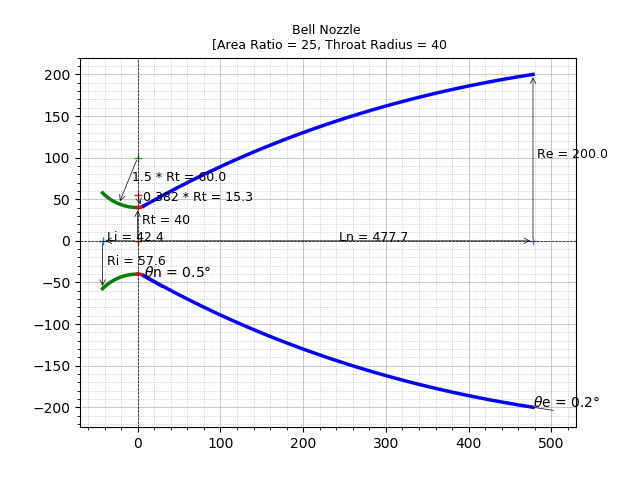
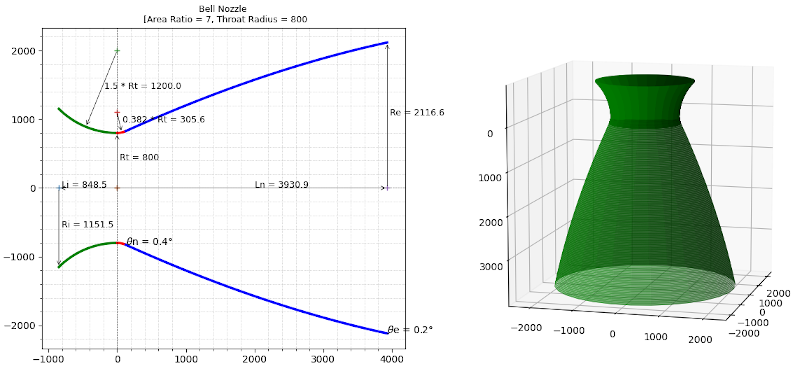
Code modified to provide a 3D view

diff --git a/bell_nozzle.py b/bell_nozzle.py
@@ -216,7 +216,7 @@ def find_nearest(array, value):
     return idx, array[idx]  
 
 # nozzle contour plot
-def plot_nozzle(title, Rt, angles, contour):
+def plot_nozzle(ax, title, Rt, angles, contour):
 	# wall angles
 	nozzle_length = angles[0]; theta_n = angles[1]; theta_e = angles[2];
 	
@@ -226,7 +226,10 @@ def plot_nozzle(title, Rt, angles, contour):
 	xbell = contour[6]; ybell = contour[7]; nybell = contour[8];
 	
 	# plot
-	ax = plt.axes()	
+
+	# set correct aspect ratio
+	ax.set_aspect('equal')
+
 	# throat enterant
 	ax.plot(xe, ye, linewidth=2.5, color='g')
 	ax.plot(xe, nye, linewidth=2.5, color='g')
@@ -321,7 +324,6 @@ def plot_nozzle(title, Rt, angles, contour):
 	
 	# show
 	plt.title(title, fontsize=9)
-	plt.show()		
 	return
 
 # theta_n in rad,  origin =[startx, starty], degree symbol
@@ -342,6 +344,80 @@ def draw_angle_arc(ax, theta_n, origin, degree_symbol=r'$\theta$'):
 	ax.text(startx+0.5, starty+0.5, degree_symbol + ' = ' + str(round(theta_n,1)) + u"\u00b0")	
 	return
 
+# ring of radius r, height h, base point a
+def ring(r, h, a=0, n_theta=30, n_height=10):
+    theta = np.linspace(0, 2*np.pi, n_theta)
+    v = np.linspace(a, a+h, n_height )
+    theta, v = np.meshgrid(theta, v)
+    x = r*np.cos(theta)
+    y = r*np.sin(theta)
+    z = v
+    return x, y, z
+
+# Set 3D plot axes to equal scale. 
+# Required since `ax.axis('equal')` and `ax.set_aspect('equal')` don't work on 3D.
+def set_axes_equal_3d(ax: plt.Axes):
+    """	
+    https://stackoverflow.com/questions/13685386/matplotlib-equal-unit-length-with-equal-aspect-ratio-z-axis-is-not-equal-to
+    """
+    limits = np.array([
+        ax.get_xlim3d(),
+        ax.get_ylim3d(),
+        ax.get_zlim3d(),
+    ])
+    origin = np.mean(limits, axis=1)
+    radius = 0.5 * np.max(np.abs(limits[:, 1] - limits[:, 0]))
+    _set_axes_radius(ax, origin, radius)
+    return
+
+# set axis limits
+def _set_axes_radius(ax, origin, radius):
+    x, y, z = origin
+    ax.set_xlim3d([x - radius, x + radius])
+    ax.set_ylim3d([y - radius, y + radius])
+    ax.set_zlim3d([z - radius, z + radius])
+    return
+
+# 3d plot
+def plot3D(ax, contour):
+	# unpack the contour values
+	xe = contour[0];   	ye = contour[1];   	nye = contour[2];
+	xe2 = contour[3]; 	ye2 = contour[4];  	nye2 = contour[5];
+	xbell = contour[6]; ybell = contour[7]; nybell = contour[8];
+	# collect and append array values
+	x = []; y = [];
+	x = np.append(x, xe);  y = np.append(y, ye)	
+	x = np.append(x, xe2);  y = np.append(y, ye2)	
+	x = np.append(x, xbell);  y = np.append(y, ybell)	
+	
+	# ring thickness
+	thick = 5 * (x[1] - x[0]) # 0.01
+	
+	# draw multiple rings to create 3d structure
+	for i in range(len(y)):
+		X, Y, Z = ring(y[i], thick, x[i])
+		ax.plot_surface(X, Y, Z, color='g')	
+		
+	# set correct aspect ratio
+	ax.set_box_aspect([1,1,1])
+	set_axes_equal_3d(ax)
+	# set view
+	ax.view_init(-170, -15)
+	return
+
+def plot(title, throat_radius, angles, contour):
+	# Plot 3d view
+	fig = plt.figure(figsize=(12,9))
+	# plot some 2d information
+	ax1 = fig.add_subplot(121)
+	plot_nozzle(ax1, title, throat_radius, angles, contour)
+	# plot 3d view
+	ax2 = fig.add_subplot(122, projection='3d')
+	plot3D(ax2, contour)	
+	# show
+	fig.tight_layout(rect=[0, 0.03, 1, 0.95])
+	plt.show()
+	return
 
 # __main method__
 if __name__=="__main__":
@@ -357,8 +433,8 @@ if __name__=="__main__":
 	# rao_bell_nozzle_contour
 	angles, contour = bell_nozzle(k, aratio, throat_radius, l_percent)
 	# plot contour
-	title = 'Bell Nozzle \n [Area Ratio = ' + str(round(aratio,1)) + ', Throat Radius = ' + str(round(throat_radius,1))
-	plot_nozzle(title, throat_radius, angles, contour)
+	title = 'Bell Nozzle \n [Area Ratio = ' + str(round(aratio,1)) + ', Throat Radius = ' + str(round(throat_radius,1)) + ']' 
+	plot(title, throat_radius, angles, contour)
 
 	# --------------- Nozzle-2------------------
 
@@ -369,5 +445,5 @@ if __name__=="__main__":
 	# rao_bell_nozzle_contour
 	angles, contour = bell_nozzle(k, aratio, throat_radius, l_percent)
 	# plot contour
-	title = 'Bell Nozzle \n [Area Ratio = ' + str(round(aratio,1)) + ', Throat Radius = ' + str(round(throat_radius,1))
-	plot_nozzle(title, throat_radius, angles, contour)
+	title = 'Bell Nozzle \n [Area Ratio = ' + str(round(aratio,1)) + ', Throat Radius = ' + str(round(throat_radius,1)) + ']' 
+	plot(title, throat_radius, angles, contour)

diff --git a/README.md b/README.md
@@ -1,6 +1,9 @@
 # Plotting a Bell nozzle
 > This script plots Bell Nozzle (Thrust Optimised Parabolic (TOP) nozzle)  for the given area-ratio and throat radius.   
 
+##Update   
+> Code updated to provide a 3D view in addition to the 2D contour.
+
 ## Table of contents
 * [General info](#general-info)
 * [Screenshots](#screenshots)
@@ -14,9 +17,10 @@
 ## Screenshots
 Nozzle contours generated by the script.   
 &nbsp;        
-Upper stage nozzle for e = 25 and Rt = 40
+Upper stage nozzle for e = 25 and Rt = 40    
 ![results](./img/typical_upper_stage_nozzle.png)     
-Lower stage nozzle for e = 7 and Rt = 800
+
+Lower stage nozzle for e = 7 and Rt = 800    
 ![results](./img/typical_lower_stage_nozzle.png) 
 
 ## General info
@@ -131,7 +135,9 @@ Script is written with python (Version: 3.6) on linux. Additional modules requir
 * run `python bell_nozzle.py` 
 
 ## Updates   
-* 
+* [29Jan2021] - Included a 3D view along with the 2D contour plot
+
+
 ## To-do list
 
 
